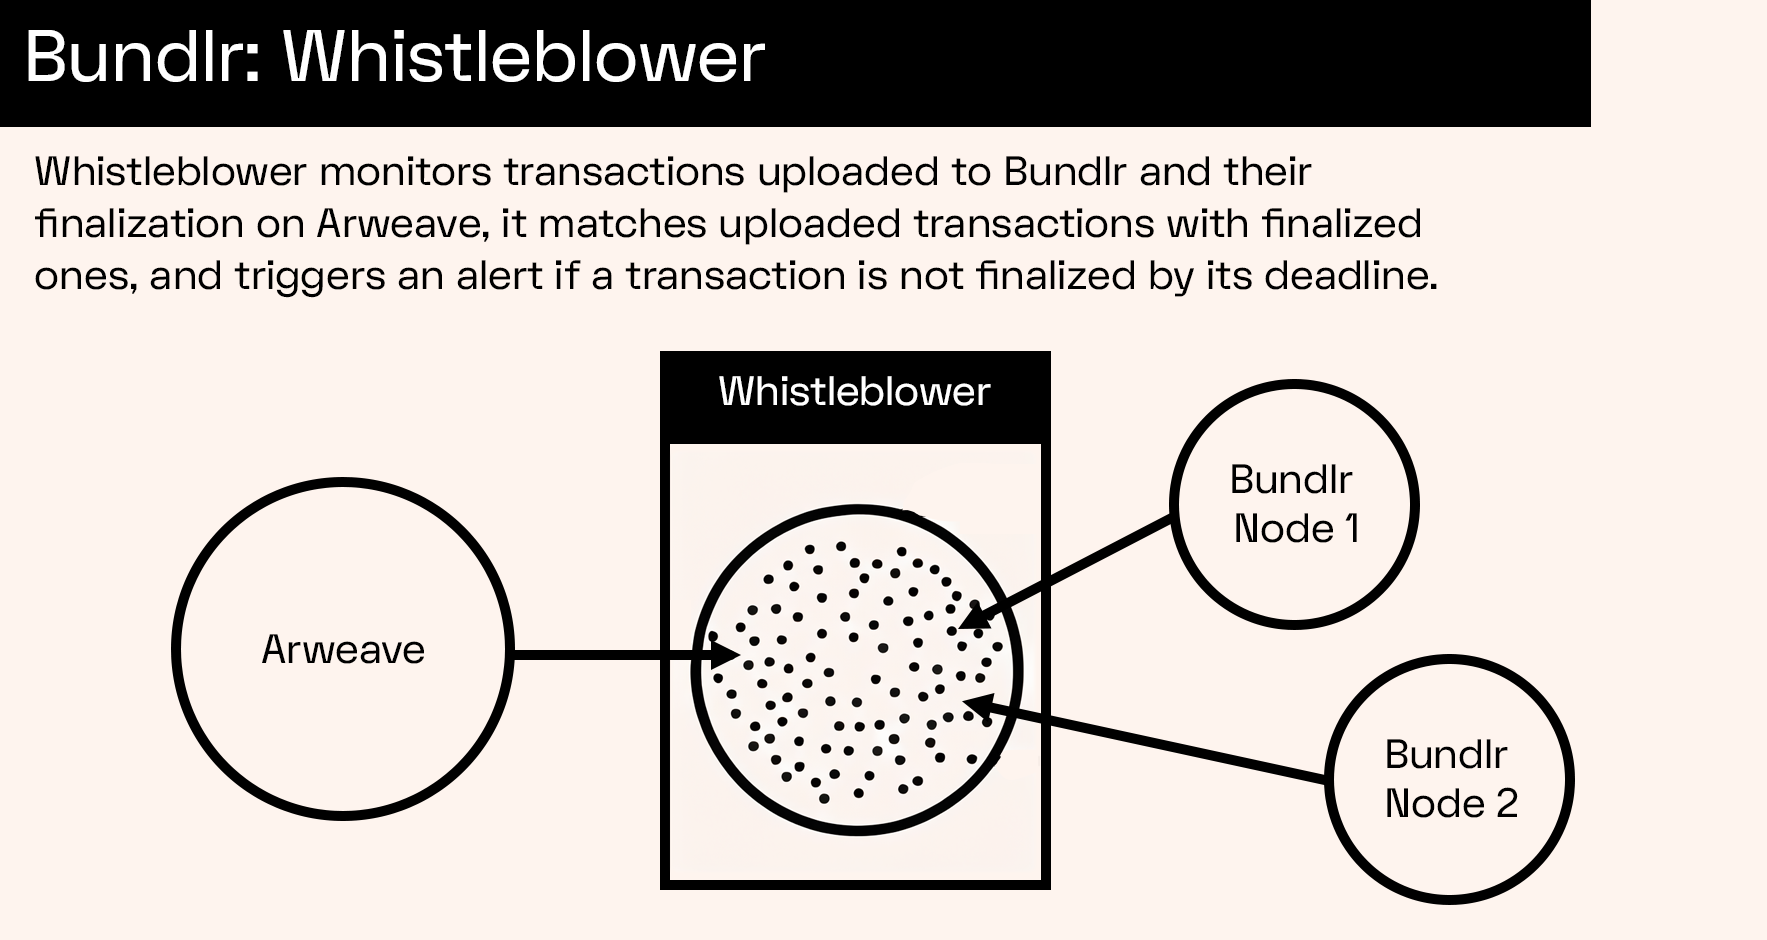
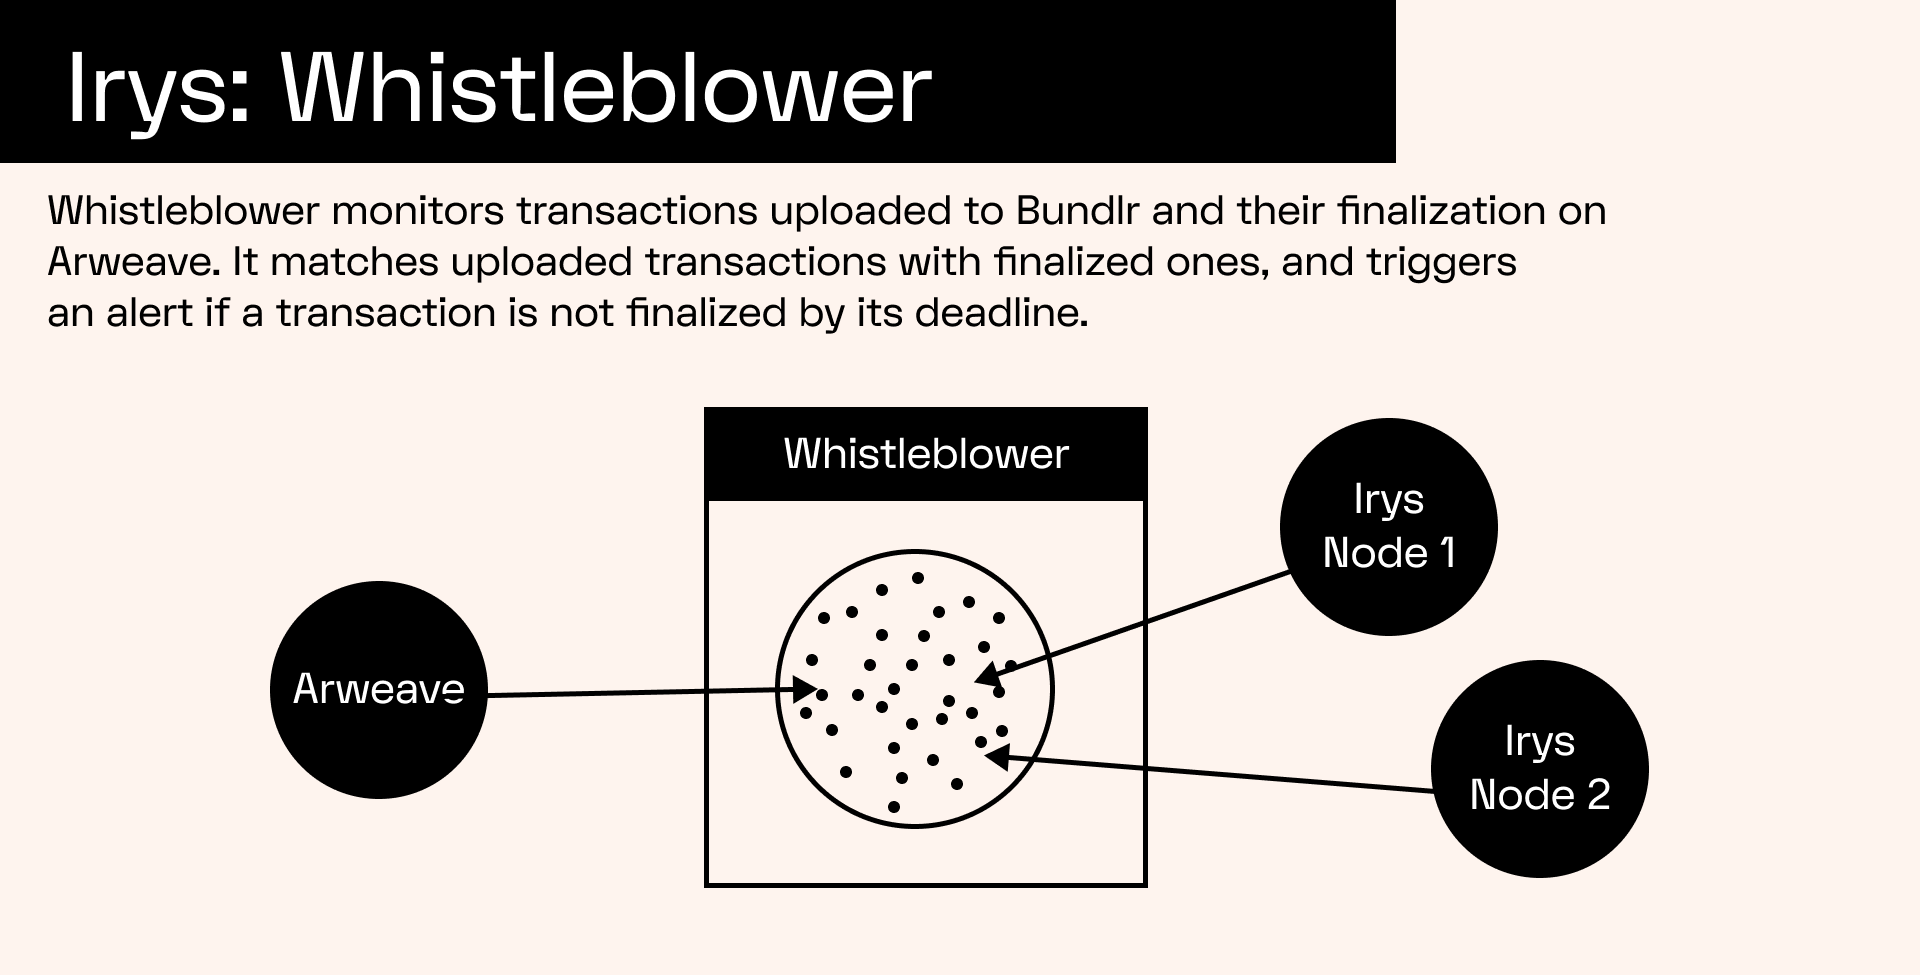
updated README to be Irys

Changed region(s): [[0.0934, 0.3702, 0.9027, 0.9872], [0.0, 0.0, 0.9027, 0.3394], [0.1556, 0.4936, 0.249, 0.5553]]

diff --git a/README.md b/README.md
@@ -1,10 +1,10 @@
 # Whistleblower
 
-Whistleblower is a lightweight, fully-featured transaction and bundle verifier that allows anyone to monitor a Bundlr node and ensure transactions are finalized on Arweave.
+Whistleblower is a lightweight, fully-featured transaction and bundle verifier that allows anyone to monitor a Irys node and ensure transactions are finalized on Arweave.
 
 ![](https://github.com/Bundlr-Network/Whistleblower/blob/master/assets/whistleblower.png?raw=true)
 
-Whistleblower monitors transactions uploaded to Bundlr and their finalization on Arweave. For each upload, Whistleblower checks the assigned deadline height - the block number by which a transaction must be finalized - and ensures it’s finalized by this block number. Acting as a bridge between Bundlr nodes and Arweave, it matches uploaded transactions with finalized ones, and triggers alerts if any transaction misses its deadline.
+Whistleblower monitors transactions uploaded to Irys and their finalization on Arweave. For each upload, Whistleblower checks the assigned deadline height - the block number by which a transaction must be finalized - and ensures it’s finalized by this block number. Acting as a bridge between Irys nodes and Arweave, it matches uploaded transactions with finalized ones, and triggers alerts if any transaction misses its deadline.
 
 With Whistleblower, you can ensure that:
 
@@ -15,7 +15,7 @@ With Whistleblower, you can ensure that:
 ## How 
 
 
-Whistleblower sets up WebSocket connections with Bundlr's nodes, tracking and adding all transactions uploaded to these nodes into its database.
+Whistleblower sets up WebSocket connections with Irys' nodes, tracking and adding all transactions uploaded to these nodes into its database.
 
 Whistleblower periodically checks Arweave for finalized bundles, downloads them, and verifies their contents. Tracked transactions within a bundle are verified and marked as valid or invalid.
 
@@ -53,13 +53,13 @@ You can run Whistleblower using either yarn or npm. Start by initializing it wit
 ### Via yarn
 
 ```console
-yarn wb-init --nodes https://node1.bundlr.network https://node2.bundlr.network 
+yarn wb-init --nodes https://node1.irys.xyz https://node2.irys.xyz 
 yarn restart 
 ```
 
 ### Via npm
 
 ```console
-npm run init-wb -- -n https://node1.bundlr.network https://node2.bundlr.network
+npm run init-wb -- -n https://node1.irys.xyz https://node2.irys.xyz
 npm run restart 
 ```
